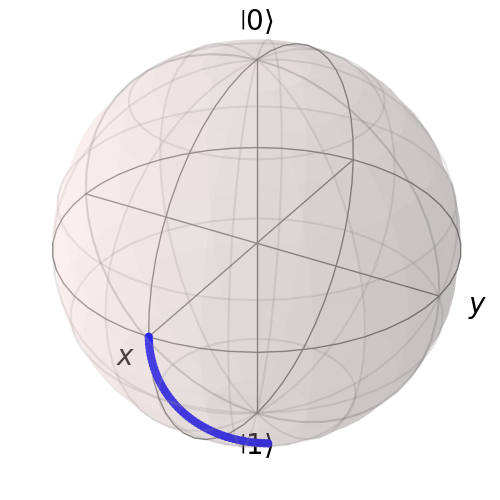
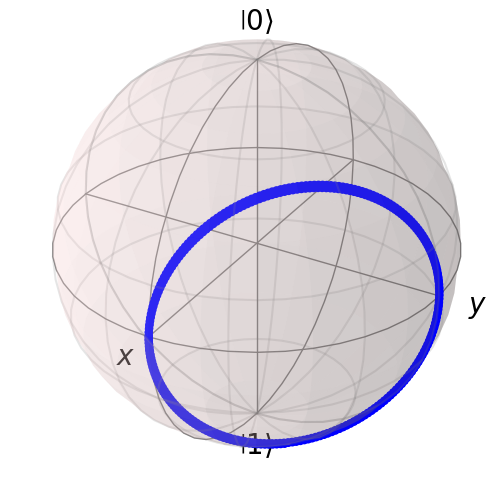
prêt pour le code review

diff --git a/evolution_tester.py b/evolution_tester.py
@@ -1,0 +1,93 @@
+import numpy as np
+from galoper import exact_evolution, trotter_evolution
+from trotter_graphs import afficher_evolution_3D, afficher_evolution_bloch, afficher_evolution_2D
+from qiskit import QuantumCircuit, QuantumRegister
+from qiskit.quantum_info import SparsePauliOp
+from qiskit.circuit.library import PauliEvolutionGate
+from qiskit.primitives import Estimator
+from numpy.typing import NDArray
+from typing import List
+
+
+def system_evolution_simulation(hamiltonian : SparsePauliOp, initial_state : QuantumCircuit, time_values : NDArray[np.float_], observables : List[SparsePauliOp], graph_method : str = "", nb_steps : NDArray[np.int_] = np.empty(1), evolution_method : str = "trotter", graph_labels : NDArray[np.str_] = np.empty(4, dtype = str)) -> NDArray[np.complex_]:
+
+    ####### création de l'array qui représente l'évolution du système #####################################
+    if evolution_method == "trotter":
+        evolution = trotter_evolution(initial_state, hamiltonian, time_values, observables, nb_steps)
+    elif evolution_method == "exact":
+        evolution = exact_evolution(initial_state, hamiltonian, time_values, observables)
+    else:
+        print("Erreur dans la simulation de l'évolution...")
+        print("Les deux méthodes disponibles sont 'trotter' et 'exact', veuillez entrer une méthode valide")
+        return np.empty(1)
+    
+    if graph_method == "bloch":
+        afficher_evolution_bloch(evolution)
+    elif graph_method == "3D":
+        if (graph_labels != np.empty(4, dtype = str)).all():
+            afficher_evolution_3D(evolution, graph_title= graph_labels[0], first_observable=graph_labels[1], second_observable=graph_labels[2], third_observable=graph_labels[3])
+        else: 
+            afficher_evolution_3D(evolution)
+    elif graph_method == "2D":
+        if (graph_labels != np.empty(4, dtype = str)).all():
+            afficher_evolution_2D(evolution, time_values, graph_title= graph_labels[0], first_observable=graph_labels[1], second_observable=graph_labels[2], third_observable=graph_labels[3])
+        else:
+            afficher_evolution_2D(evolution, time_values)
+    else:
+        print("Le graphique n'a pas été créé...")
+        print("Les méthodes d'affichage de graphique sont 'bloch', '3D' et '2D'")
+    
+    return evolution
+
+
+def results_validation(exact_results :NDArray[np.complex_], trotter_results : NDArray[np.complex_], tolerance : float)-> NDArray[np.bool_]:
+    soustraction_test = trotter_results - exact_results   
+    validation = np.abs(soustraction_test)< tolerance
+
+    return validation
+
+
+############# test des fonctions implémentées ###################################################################
+nb_qubits = 1
+pas = 0.5
+temps_total = 10
+nb_valeurs = int(temps_total/pas)
+Pauli_list = ["X", "Y"]
+coeffs = 1/2*np.ones(2**nb_qubits)
+hamiltonian = SparsePauliOp(Pauli_list, coeffs)
+initial_state = QuantumCircuit(nb_qubits)
+initial_state.h(0)
+time_values = np.arange(0, temps_total, pas)
+
+X = SparsePauliOp("X", [1])
+Y = SparsePauliOp("Y", [1])
+Z = SparsePauliOp("Z", [1])
+observables = [X, Y, Z]
+
+num_steps = 100 * np.ones(nb_valeurs, dtype = int)
+
+exact_results = system_evolution_simulation(hamiltonian, initial_state, time_values, observables, evolution_method = "exact", graph_method="2D")
+trotter_results = system_evolution_simulation(hamiltonian, initial_state, time_values, observables, nb_steps=num_steps, evolution_method="trotter")
+
+
+validation = results_validation(exact_results, trotter_results, 1e-1)
+
+print(validation)
+
+
+###################### test avec les outils de qiskit #########################
+#qiskit_results = np.empty((500, 3))
+#for i, time in enumerate(time_values):
+#    evolution_gate = PauliEvolutionGate(hamiltonian, time)
+#    qreg = QuantumRegister(nb_qubits)
+#    circuit = QuantumCircuit(qreg)
+#    circuit.append(initial_state, qreg)
+#    circuit.append(evolution_gate, qreg)
+#    circuits = [circuit, circuit, circuit]
+#    estimator = Estimator()
+#    result = estimator.run(circuits, observables).result().values
+#    qiskit_results[i, :] = result
+
+###############################################################################
+
+

diff --git a/simulation_graphs.py b/simulation_graphs.py
@@ -1,0 +1,44 @@
+from qutip import Bloch
+from numpy.typing import NDArray
+import numpy as np
+import matplotlib.pyplot as plt
+
+
+def afficher_evolution_3D(results : NDArray, first_observable : str = "valeur moyenne en x", second_observable: str = "valeur moyenne en y", third_observable : str = "valeur moyenne en z" , graph_title :str = "évolution des valeurs moyennes x, y et z"):
+
+    fig = plt.figure()
+    ax = fig.add_subplot(projection='3d')
+    ax.set_xlabel(first_observable)
+    ax.set_ylabel(second_observable)
+    ax.set_zlabel(third_observable)  
+    xs = np.array(results[:, 0])
+    ys = np.array(results[:, 1])
+    zs = np.array(results[:, 2])
+    ax.scatter(xs, ys, zs, color = "blue")
+    plt.title(graph_title)
+    plt.savefig(graph_title)
+
+def afficher_evolution_bloch(results : NDArray):
+    b = Bloch()
+    xs = np.array(results[:, 0])
+    ys = np.array(results[:, 1])
+    zs = np.array(results[:, 2])
+    pnts = [xs, ys, zs]
+    b.add_points(pnts)
+    b.save()
+    
+
+def afficher_evolution_2D(results :NDArray, time_values: NDArray, first_observable : str = "valeur moyenne en x", second_observable: str = "valeur moyenne en y", third_observable : str = "valeur moyenne en z" , graph_title :str = "évolution des valeurs moyennes x, y et z"):
+    y1 = np.array(results[:, 0])
+    x = time_values
+    plt.plot(x, y1, label = first_observable)
+    y2 = np.array(results[:, 1])
+    plt.plot(x, y2, label = second_observable)
+    y3 = np.array(results[:, 2])
+    plt.plot(x, y3, label = third_observable)
+    plt.title(graph_title)
+    plt.legend()
+    plt.xlabel("temps en seconde")
+    plt.ylabel("valeur moyenne des observables")
+    plt.savefig(graph_title)
+    

diff --git a/evolution_simulation.py b/evolution_simulation.py
@@ -8,7 +8,6 @@ from qiskit.quantum_info import Statevector
 from qiskit.primitives import Estimator
 
 
-
 def exact_evolution(initial_state: QuantumCircuit, hamiltonian: SparsePauliOp, time_values: NDArray[np.float_], observables: List[SparsePauliOp],):
     """
     Simulate the exact evolution of a quantum system in state "initial_state" under a given
@@ -30,7 +29,7 @@ def exact_evolution(initial_state: QuantumCircuit, hamiltonian: SparsePauliOp, t
     eigenvalues, eigenvectors = np.linalg.eigh(hamiltonian_matrix)
 
     #w = np.exp((-1*time_values[:, None])*eigenvalues[None, :])
-    w = np.exp(1j*np.einsum("i, j-> ij", time_values, eigenvalues))
+    w = np.exp(-1j*np.einsum("i, j-> ij", time_values, eigenvalues))
     evolution_operators = np.einsum("ik, sk, jk -> sij", eigenvectors, w, np.conjugate(eigenvectors))
 
     init_state = Statevector(initial_state)
